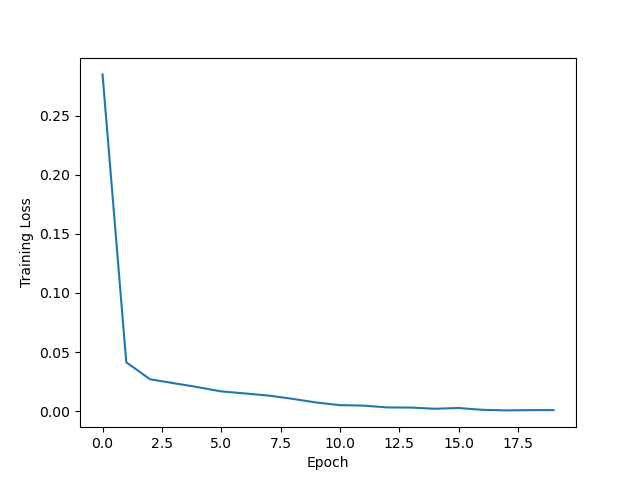
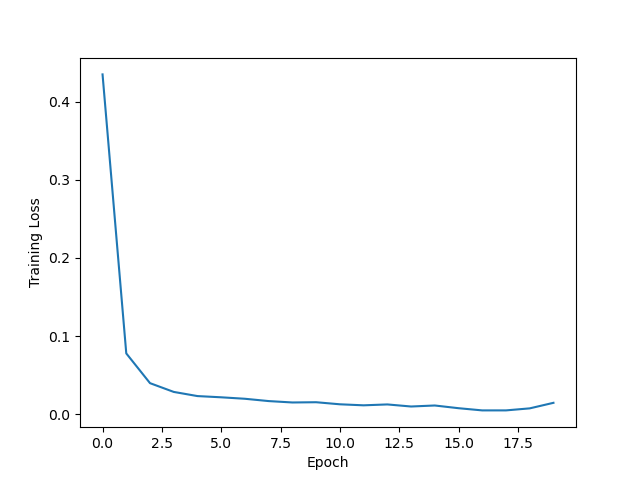
Add analysis

diff --git a/Project/run.py b/Project/run.py
@@ -70,7 +70,7 @@ def process_data(audio_data, text_data, video_data):
 
     return a_train, v_train, t_train, a_test, t_test, v_test, train_label, test_label, train_mask, test_mask
 
-def train_epoch(model, opt, criterion, batch_size=1):
+def train_epoch(model, opt, criterion, batch_size=3):
     model.train()
     losses = 0
     label_pred = []
@@ -164,7 +164,7 @@ if __name__ == "__main__":
     parser.add_argument('--text_encoder', type=str, default='lstm', help='[lstm, cnn_rnn, transformer, cnn]')
     parser.add_argument('--audio_encoder', type=str, default='lstm', help='[lstm, cnn_rnn, transformer, cnn]')
     parser.add_argument('--video_encoder', type=str, default='lstm', help='[lstm, cnn_rnn, transformer, cnn]')
-    parser.add_argument('--hidden_dim', type=int, default=128, help='hidden size of the model')
+    parser.add_argument('--hidden_dim', type=int, default=64, help='hidden size of the model')
     parser.add_argument('--audio_dim', type=int, default=73, help='audio feature dimension of the data')
     parser.add_argument('--video_dim', type=int, default=100, help='video feature dimension of the data')
     parser.add_argument('--text_dim', type=int, default=100, help='text feature dimension of the data')
@@ -188,6 +188,11 @@ if __name__ == "__main__":
     opt = optim.Adam(model.parameters(), lr=cfgs.learning_rate)
 
     criterion = nn.BCEWithLogitsLoss(reduction="mean")
+
+    # count parameters
+    def count_parameters(model):
+        return sum(p.numel() for p in model.parameters() if p.requires_grad)
+    print('The model has ' + str(count_parameters(model)) + ' trainable parameters')
 
     # train the model
     e_losses = []
@@ -217,14 +222,14 @@ if __name__ == "__main__":
     print("Test f1 ", test_f1)
     
     # append the results to a csv file
-    with open('results3.csv', 'a') as f:
-        writer = csv.writer(f)
-        # writer.writerow({"configs: ": str(cfgs), "train_acc: ": str(train_acc), "test_acc": str(test_acc)})
-        writer.writerow([str(cfgs.text_encoder), str(cfgs.video_encoder), str(cfgs.audio_encoder), str(train_acc), str(train_f1), str(test_acc), str(test_f1)])
+    # with open('results3.csv', 'a') as f:
+    #     writer = csv.writer(f)
+    #     # writer.writerow({"configs: ": str(cfgs), "train_acc: ": str(train_acc), "test_acc": str(test_acc)})
+    #     writer.writerow([str(cfgs.text_encoder), str(cfgs.video_encoder), str(cfgs.audio_encoder), str(train_acc), str(train_f1), str(test_acc), str(test_f1)])
 
     plt.plot(e_losses)
     plt.xlabel("Epoch")
     plt.ylabel("Training Loss")
-    plt.savefig('./figures/'+cfgs.text_encoder+'_'+cfgs.video_encoder+'_'+cfgs.audio_encoder)
-    # plt.show()
+    # plt.savefig('./figures/'+cfgs.text_encoder+'_'+cfgs.video_encoder+'_'+cfgs.audio_encoder)
+    plt.show()
 
